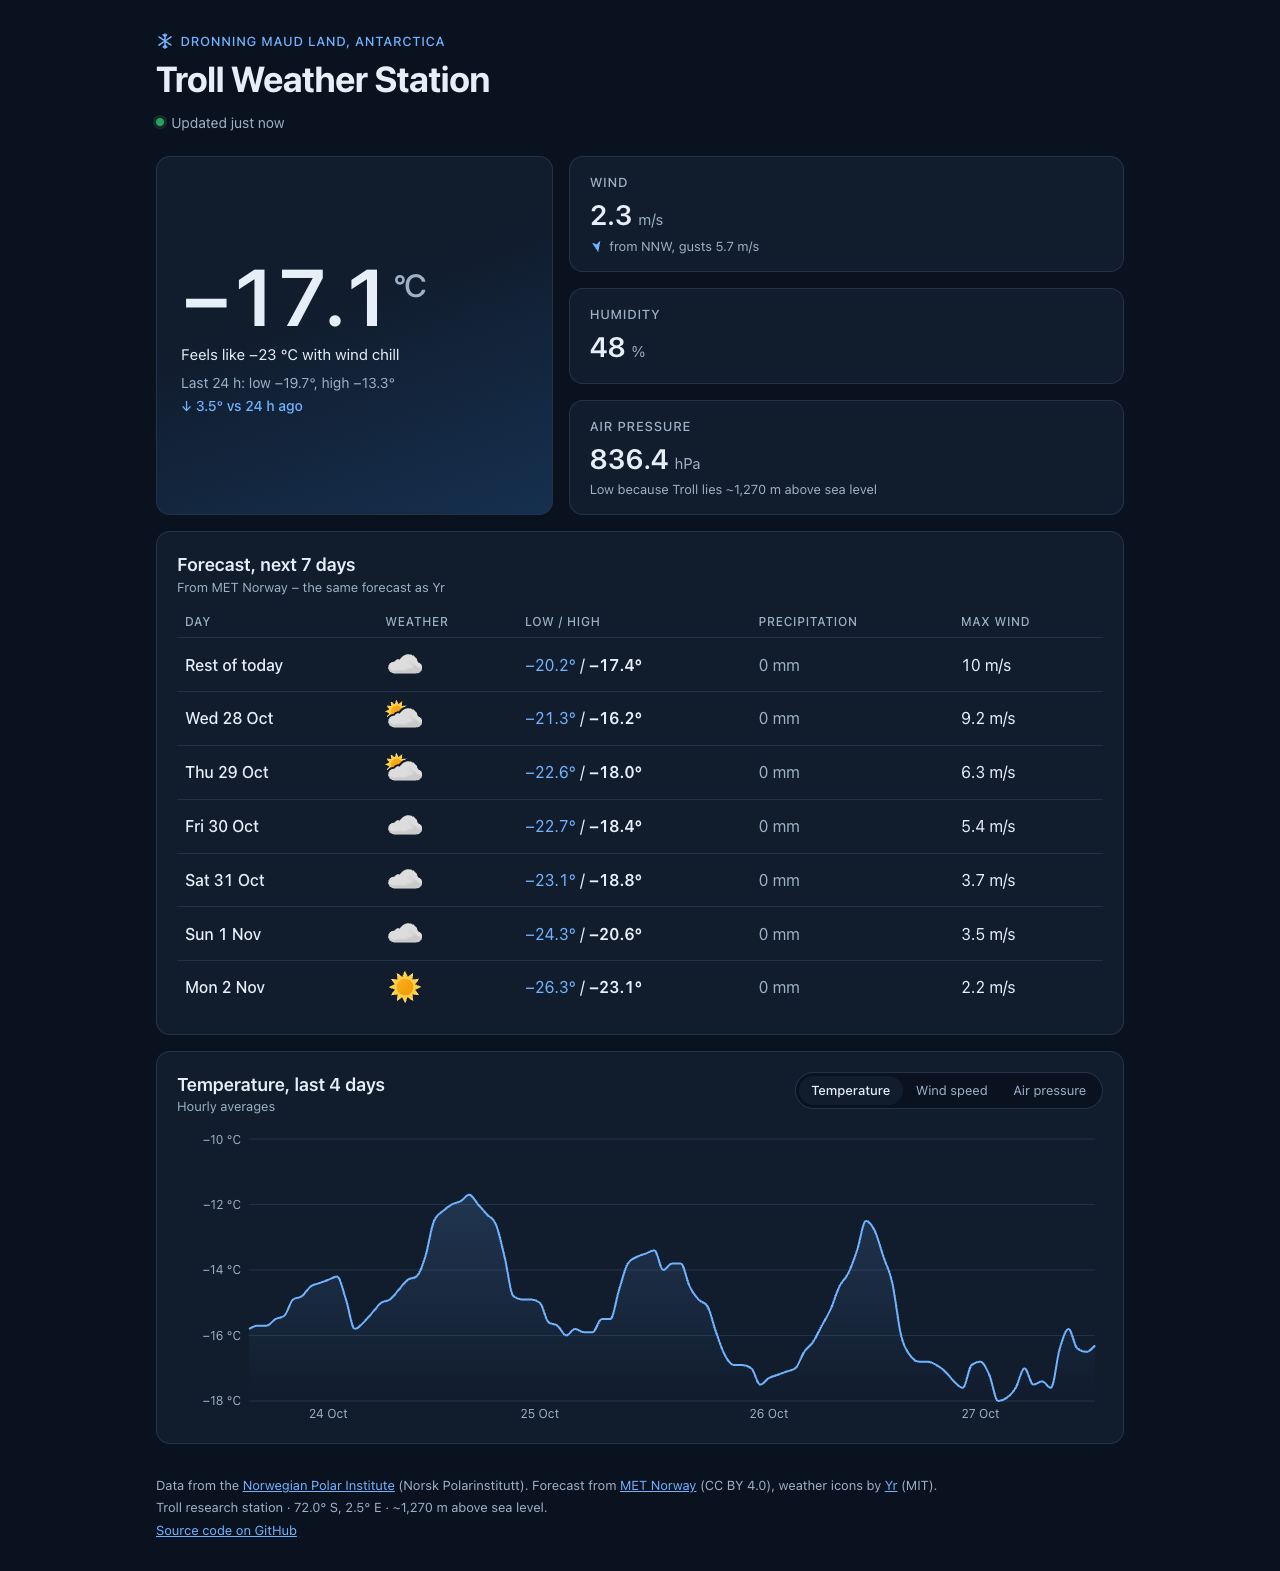
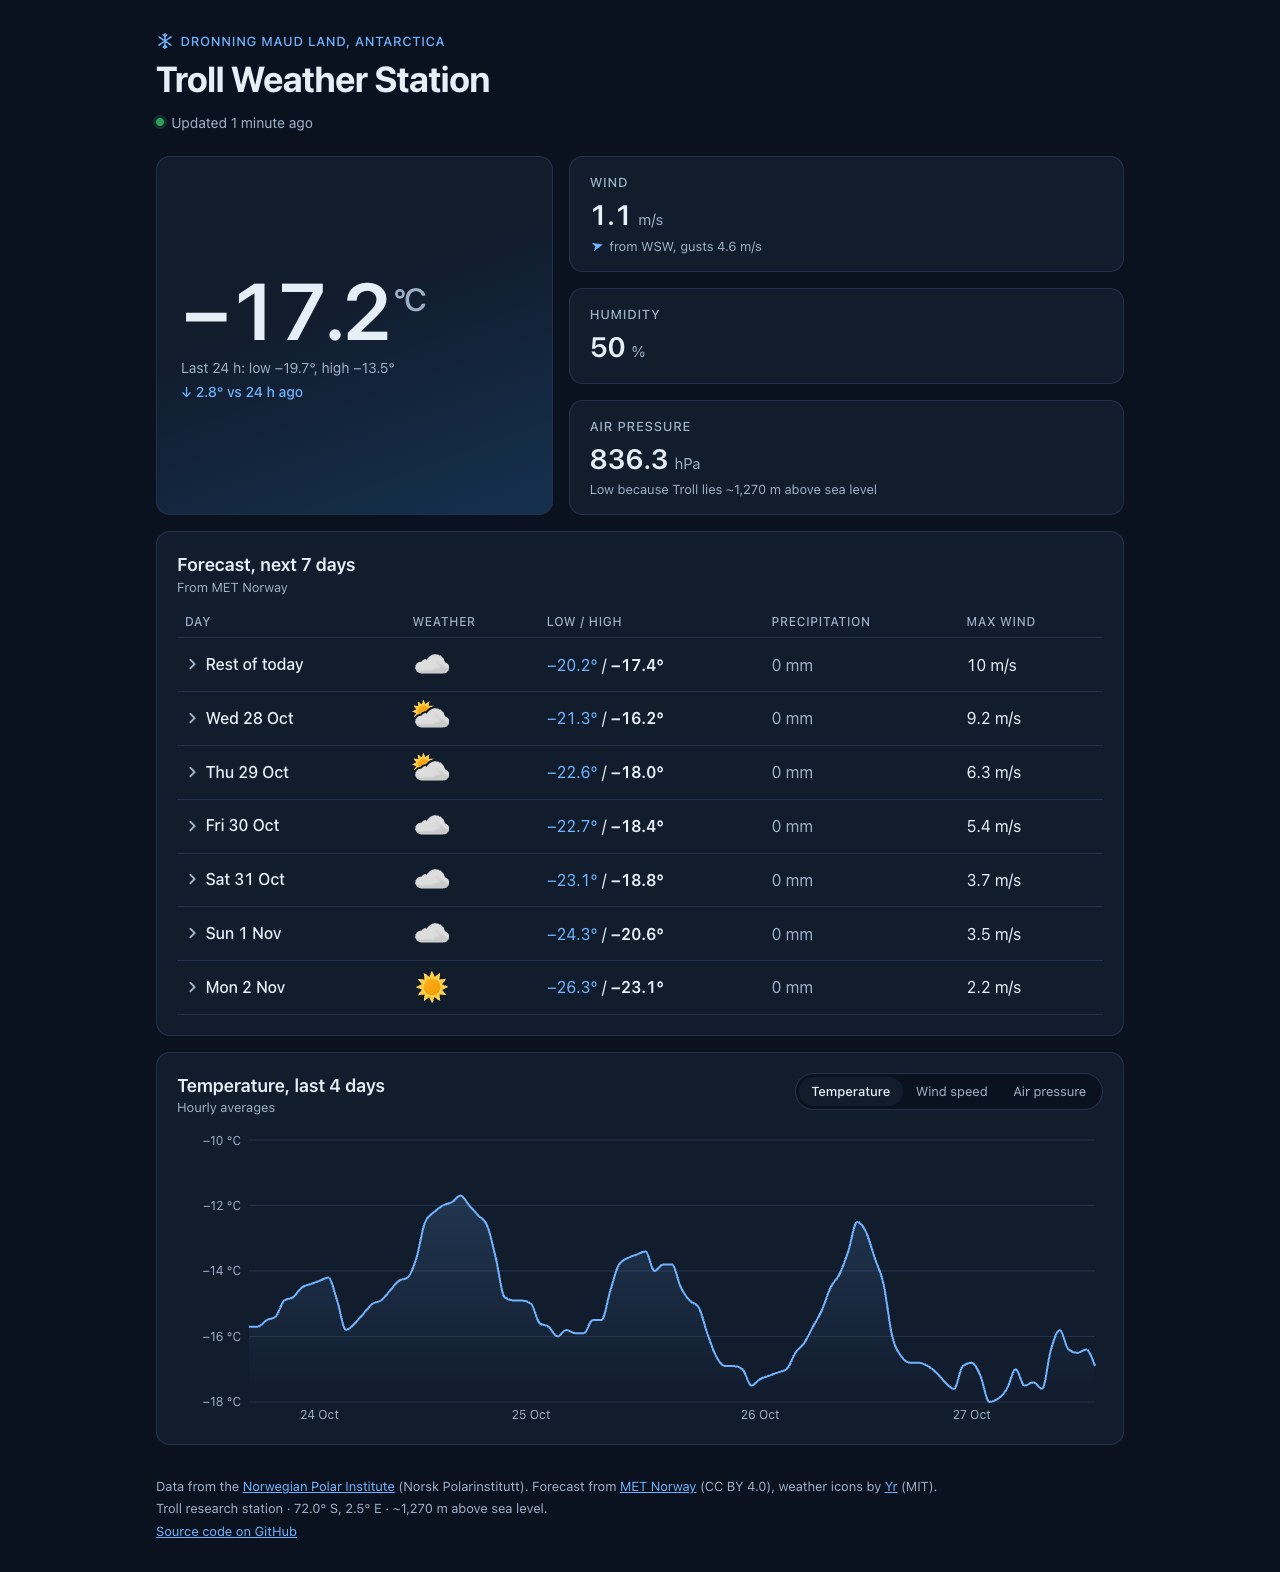
Improve page load and reduce data use
- Load the chart (Recharts, 84% of JS) as a separate chunk, only when
  scrolled near: initial JS 163 -> 66 KB gzip, phone first visit
  188 -> 94 KB
- Preload API data from index.html when the cache is stale, so it
  downloads in parallel with the JavaScript
- Send the OpenSearch query as GET to avoid the CORS preflight
- Pause polling while the tab is hidden
- Fix layout shift from the footer and chart placeholder (CLS 0.18 -> 0)
- Lighthouse Performance 90 -> 99; README page load and sustainability
  review with before/after measurements

diff --git a/src/App.jsx b/src/App.jsx
@@ -1,18 +1,21 @@
+import { lazy, Suspense } from "react";
 import CurrentConditions from "./components/CurrentConditions";
-import WeatherChart from "./components/WeatherChart";
+import WhenVisible from "./components/WhenVisible";
 import Forecast from "./components/Forecast";
 import { useCachedData } from "./useCachedData";
 import { fetchWeather } from "./api";
 import { fetchForecast } from "./forecast";
+import { SOURCES } from "./sources";
 import { useNow } from "./useNow";
 import { formatDateTime, formatRelative } from "./format";
 import './index.css';
 
+// The chart library (Recharts) is most of the JavaScript, and the chart is below the
+// fold – load it separately, and only when the visitor scrolls near it.
+const WeatherChart = lazy(() => import("./components/WeatherChart"));
+const chartPlaceholder = <div className="chart-placeholder" aria-hidden="true" />;
+
 const STALE_AFTER = 30 * 60 * 1000
-// The station reports every minute; refreshing every 5 minutes is plenty.
-const WEATHER_MAX_AGE = 5 * 60 * 1000
-// MET updates the forecast about once an hour.
-const FORECAST_MAX_AGE = 30 * 60 * 1000
 
 function Shell({ children }) {
   return (
@@ -45,8 +48,8 @@ function Shell({ children }) {
 }
 
 function App() {
-  const { data, loading, error } = useCachedData('troll-weather:v2', fetchWeather, WEATHER_MAX_AGE)
-  const forecast = useCachedData('troll-weather:forecast:v1', fetchForecast, FORECAST_MAX_AGE)
+  const { data, loading, error } = useCachedData(SOURCES.weather.key, fetchWeather, SOURCES.weather.maxAge)
+  const forecast = useCachedData(SOURCES.forecast.key, fetchForecast, SOURCES.forecast.maxAge)
   const now = useNow()
 
   if (loading) return <Shell><p className="status" aria-live="polite">Loading weather data…</p></Shell>
@@ -67,7 +70,11 @@ function App() {
       {error && <p className="notice" role="status">Could not refresh data ({error}). Showing the last saved readings.</p>}
       <CurrentConditions latest={data.latest} series={data.series} range24h={data.range24h} />
       <Forecast forecast={forecast.data} error={forecast.error} />
-      <WeatherChart series={data.series} />
+      <WhenVisible placeholder={chartPlaceholder}>
+        <Suspense fallback={chartPlaceholder}>
+          <WeatherChart series={data.series} />
+        </Suspense>
+      </WhenVisible>
     </Shell>
   )
 }

diff --git a/src/useCachedData.js b/src/useCachedData.js
@@ -18,7 +18,7 @@ export function writeCache(key, data) {
 
 /**
  * Stale-while-revalidate: show cached data instantly, then refresh it in the
- * background when it is older than `maxAge`. Keeps polling while the page is open.
+ * background when it is older than `maxAge`. Keeps polling while the tab is visible.
  * `fetcher` must be a stable function (e.g. defined at module level).
  */
 export function useCachedData(key, fetcher, maxAge) {
@@ -41,14 +41,26 @@ export function useCachedData(key, fetcher, maxAge) {
       }
     }
 
-    const age = cached ? Date.now() - cached.savedAt : Infinity
-    const firstRefresh = setTimeout(refresh, Math.max(0, maxAge - age))
-    const interval = setInterval(refresh, maxAge)
+    // Only poll while the tab is visible – a background tab shouldn't keep
+    // downloading data nobody is looking at. Catch up when it becomes visible.
+    let lastFetch = cached ? cached.savedAt : 0
+    let timer
+    const schedule = () => {
+      clearTimeout(timer)
+      if (document.hidden) return
+      timer = setTimeout(async () => {
+        lastFetch = Date.now()
+        await refresh()
+        if (!cancelled) schedule()
+      }, Math.max(0, maxAge - (Date.now() - lastFetch)))
+    }
+    schedule()
+    document.addEventListener('visibilitychange', schedule)
 
     return () => {
       cancelled = true
-      clearTimeout(firstRefresh)
-      clearInterval(interval)
+      clearTimeout(timer)
+      document.removeEventListener('visibilitychange', schedule)
     }
   }, [cached, key, fetcher, maxAge])
 

diff --git a/vite.config.js b/vite.config.js
@@ -1,9 +1,25 @@
 import { defineConfig } from 'vite'
 import react from '@vitejs/plugin-react'
+import { SOURCES } from './src/sources.js'
+
+/**
+ * Starts the API requests from index.html, in parallel with downloading the app's
+ * JavaScript, instead of after it has loaded and run. The tiny inline script only
+ * adds a <link rel="preload"> when the cached copy is missing or stale, so repeat
+ * visits don't download data they won't use. fetch() then reuses the preloaded response.
+ */
+function preloadData() {
+  const sources = JSON.stringify(Object.values(SOURCES))
+  const script = `(function(){var n=Date.now();${sources}.forEach(function(s){var c=null;try{c=JSON.parse(localStorage.getItem(s.key))}catch(e){}if(c&&n-c.savedAt<s.maxAge)return;var l=document.createElement('link');l.rel='preload';l.as='fetch';l.crossOrigin='anonymous';l.href=s.url;document.head.appendChild(l)})})()`
+  return {
+    name: 'preload-data',
+    transformIndexHtml: () => [{ tag: 'script', children: script, injectTo: 'head-prepend' }],
+  }
+}
 
 // https://vite.dev/config/
 export default defineConfig({
-  plugins: [react()],
+  plugins: [react(), preloadData()],
   // Relative asset paths so the build works on GitHub Pages under any repo name.
   base: './',
 })

diff --git a/src/components/WhenVisible.jsx b/src/components/WhenVisible.jsx
@@ -1,0 +1,26 @@
+import { useEffect, useRef, useState } from 'react'
+
+/**
+ * Renders `placeholder` until the element scrolls near the viewport, then
+ * `children`. Used to avoid downloading the chart for visitors who never scroll to it.
+ */
+function WhenVisible({ children, placeholder, margin = '300px' }) {
+  const ref = useRef(null)
+  const [visible, setVisible] = useState(() => typeof IntersectionObserver === 'undefined')
+
+  useEffect(() => {
+    if (visible) return
+    const observer = new IntersectionObserver(([entry]) => {
+      if (entry.isIntersecting) {
+        setVisible(true)
+        observer.disconnect()
+      }
+    }, { rootMargin: margin })
+    observer.observe(ref.current)
+    return () => observer.disconnect()
+  }, [visible, margin])
+
+  return visible ? children : <div ref={ref}>{placeholder}</div>
+}
+
+export default WhenVisible

diff --git a/src/components/CurrentConditions.jsx b/src/components/CurrentConditions.jsx
@@ -79,7 +79,7 @@ function CurrentConditions({ latest, series, range24h }) {
       </div>
 
       <dl className="stats">
-        <Stat label="Wind" value={latest.FF0_0} unit="m/s" spokenUnit="metres per second">
+        <Stat label="Wind" value={latest.FF0_0?.toFixed(1)} unit="m/s" spokenUnit="metres per second">
           {direction && (
             <>
               <svg
@@ -91,7 +91,7 @@ function CurrentConditions({ latest, series, range24h }) {
                 <path d="M8 1 L13 13 L8 10 L3 13 Z" transform={`rotate(${latest.DD0_0 + 180} 8 8)`} />
               </svg>
               from {direction}
-              {latest.FG0_0 != null && <>, gusts {formatNumber(latest.FG0_0)} m/s</>}
+              {latest.FG0_0 != null && <>, gusts {formatNumber(latest.FG0_0.toFixed(1))} m/s</>}
             </>
           )}
         </Stat>

diff --git a/src/api.js b/src/api.js
@@ -43,12 +43,12 @@ export function parseResponse(result) {
   }
 }
 
+// Sent as a GET with the query in the URL: a "simple" CORS request, so the browser
+// skips the extra OPTIONS preflight round trip that a JSON POST would need.
+export const WEATHER_URL = `${API_URL}?source_content_type=application/json&source=${encodeURIComponent(JSON.stringify(QUERY))}`
+
 export async function fetchWeather() {
-  const response = await fetch(API_URL, {
-    method: 'POST',
-    headers: { 'Content-Type': 'application/json' },
-    body: JSON.stringify(QUERY),
-  })
+  const response = await fetch(WEATHER_URL)
   if (!response.ok) throw new Error(`Error: ${response.status}`)
   return parseResponse(await response.json())
 }

diff --git a/src/index.css b/src/index.css
@@ -57,6 +57,11 @@ main,
   padding: 2rem 1rem;
 }
 
+/* Keeps the footer below the fold while data loads, so it doesn't jump (layout shift). */
+main {
+  min-height: 100vh;
+}
+
 .page-header {
   margin-bottom: 0.5rem;
 }
@@ -143,4 +148,21 @@ h1 {
   clip: rect(0, 0, 0, 0);
   white-space: nowrap;
   border: 0;
+}
+
+/* Reserves the chart card's space while its code loads, so nothing jumps. */
+.chart-placeholder {
+  height: 410px;
+}
+
+@media (max-width: 480px) {
+  .chart-placeholder {
+    height: 443px;
+  }
+}
+
+.chart-placeholder {
+  background: var(--surface);
+  border: 1px solid var(--border);
+  border-radius: var(--radius);
 }

diff --git a/src/sources.js b/src/sources.js
@@ -1,0 +1,11 @@
+import { WEATHER_URL } from './api'
+import { FORECAST_URL } from './forecast'
+
+// Data sources with their localStorage cache key and max age. Shared by the app
+// and by vite.config.js, which uses them to start fetching early (see preload there).
+export const SOURCES = {
+  // The station reports every minute; refreshing every 5 minutes is plenty.
+  weather: { url: WEATHER_URL, key: 'troll-weather:v2', maxAge: 5 * 60 * 1000 },
+  // MET updates the forecast about once an hour.
+  forecast: { url: FORECAST_URL, key: 'troll-weather:forecast:v2', maxAge: 30 * 60 * 1000 },
+}

diff --git a/README.md b/README.md
@@ -17,9 +17,10 @@ the 7-day forecast from MET Norway (the same forecast as Yr).
 
 - **Current conditions** — temperature with 24-hour low/high and trend, wind chill
   ("feels like") when it applies, wind speed with direction and gusts, humidity and air pressure
-- **7-day forecast** — weather symbol, low/high, precipitation and max wind per day
+- **7-day forecast** — weather symbol, low/high, precipitation and max wind per day;
+  expand a day to see it in 6-hour periods, like Yr
 - **4-day chart** of hourly averages, switchable between temperature, wind and pressure
-- **Live** — refreshes every 5 minutes, shows "Updated 3 minutes ago" and flags stale data
+- **Live** — refreshes every 5 minutes while the tab is visible, shows "Updated 3 minutes ago" and flags stale data
 - **Light and dark mode** following the system setting
 - **Responsive** layout from phone to desktop
 
@@ -47,6 +48,8 @@ The station measurements and the MET Norway forecast are fetched independently w
 caching hook, so a forecast outage never hides the live readings (or the other way round).
 MET Norway's terms require clients to respect the `Expires` header; the forecast is a plain
 `GET`, so the browser's HTTP cache enforces that on top of the 30-minute app-level cache.
+The expanded 6-hour periods reuse the same de-duplicated precipitation, so they always add up
+to the day total.
 
 ### Forecast aggregation in station time
 
@@ -62,17 +65,57 @@ and chooses the midday symbol for each day, like Yr. All of this is unit tested.
 - Units spelled out for screen readers ("−20.4 degrees Celsius", not "°C")
 - Missing sensor readings shown as "–" and announced as "Not available"
 - Forecast is a real data table with row and column headers; icons have text alternatives
+- Expandable days use a `button` with `aria-expanded`/`aria-controls`; the whole row is clickable
 - Chart has a text alternative with its range; metric switcher uses `aria-pressed`
-- Visible focus styles, no motion, colour contrast checked in both themes
+- Visible focus styles, minimal motion (respects `prefers-reduced-motion`), colour contrast
+  checked in both themes
 
-### Lighthouse (production build)
+### Page load and sustainability review
 
-| Performance | Accessibility | Best Practices | SEO |
-|:---:|:---:|:---:|:---:|
-| 91–95 | 100 | 100 | 100 |
+Measured on the production build (Lighthouse 12, simulated mobile 4G, median of 3 runs;
+transfer sizes from Chrome DevTools Protocol; CO₂e from
+[co2.js](https://developers.thegreenwebfoundation.org/co2js/overview/) using the Sustainable
+Web Design model v4).
 
-Total page weight is ~190 KB. Measured with Lighthouse 12 in headless Chrome against
-`npm run build && npm run preview`.
+| | Before | After |
+|---|---:|---:|
+| Lighthouse Performance | 90 | **99** |
+| First Contentful Paint | 1.7 s | **1.2 s** |
+| Largest Contentful Paint ¹ | 1.9 s | **1.9 s** |
+| Time to Interactive | 2.3 s | **1.9 s** |
+| Total Blocking Time | 59 ms | **0 ms** |
+| JavaScript start-up | 372 ms | **97 ms** |
+| Cumulative Layout Shift (phone) | 0.18 | **0** |
+| First visit on a phone | 188 KB · 28.6 mg CO₂e | **94 KB · 14.3 mg CO₂e** |
+| Repeat visit (fresh cache) | 0.8 KB | 0.8 KB |
+| Tab left open in background, 8 h | 1.9 MB · 283 mg CO₂e | **0 KB** |
+
+¹ *Before*, the LCP element was the footer text shown while data loaded, so 1.9 s measured the
+loading screen. *After*, it is the temperature itself – the same time, but now for real content.
+
+What changed and why:
+
+- **Chart code is split out and loaded on demand.** Recharts was 84 % of the JavaScript, yet
+  the chart sits below the fold. It now loads as a separate chunk only when the visitor
+  scrolls near it (`React.lazy` + `IntersectionObserver`), halving the first-visit download
+  on phones (initial JS 163 → 66 KB gzip).
+- **Data starts downloading with the HTML, not after the JavaScript.** A tiny inline script
+  adds `<link rel="preload">` for both APIs — but only when the cached copy is stale, so
+  repeat visits download nothing extra. See [`vite.config.js`](vite.config.js).
+- **No CORS preflight.** The OpenSearch query is sent as a `GET` with the query in the URL
+  instead of a JSON `POST`, which saves the extra `OPTIONS` round trip.
+- **No polling in background tabs.** Refreshes pause when the tab is hidden
+  (Page Visibility API) and catch up when it becomes visible again.
+- **No layout shift.** The footer used to jump off-screen when content arrived, and the chart
+  now has a placeholder with its exact height.
+- **Already efficient:** system fonts (no web-font downloads), SVG icons loaded only when shown,
+  server-side aggregation (~400× smaller data), dark mode for OLED screens, minimal animation.
+
+Hosting: GitHub Pages (Fastly) is verified green by the
+[Green Web Foundation](https://www.thegreenwebfoundation.org/). The two data APIs are not in
+its directory, so their energy source is unverified. GitHub Pages also caches hashed assets
+for only 10 minutes; a host that allows `Cache-Control: immutable` (e.g. Netlify or Cloudflare
+Pages) would avoid revalidation requests on later visits.
 
 ## Getting started
 
@@ -104,15 +147,17 @@ to GitHub Pages.
 src/
 ├── api.js                 OpenSearch query and response parsing (measurements)
 ├── forecast.js            MET Norway forecast fetch and per-day aggregation
-├── useCachedData.js       Data hook with localStorage cache and auto-refresh
+├── sources.js             API URLs, cache keys and max ages (also used by vite.config.js)
+├── useCachedData.js       Data hook with localStorage cache and visibility-aware refresh
 ├── symbols.js             Weather symbol descriptions (from metno/weathericons)
 ├── weather.js             Wind chill, compass direction, temperature trend
 ├── format.js              Station time zone, dates, relative time, numbers
 ├── useNow.js              Ticking clock for "updated X minutes ago"
 ├── components/
 │   ├── CurrentConditions  Hero temperature and secondary measurements
-│   ├── Forecast           7-day forecast table
-│   └── WeatherChart       4-day chart with metric switcher
+│   ├── Forecast           7-day forecast table with expandable 6-hour periods
+│   ├── WhenVisible        Renders children only when scrolled near (lazy chart)
+│   └── WeatherChart       4-day chart with metric switcher (separate chunk)
 └── *.test.js              Unit tests
 ```
 
